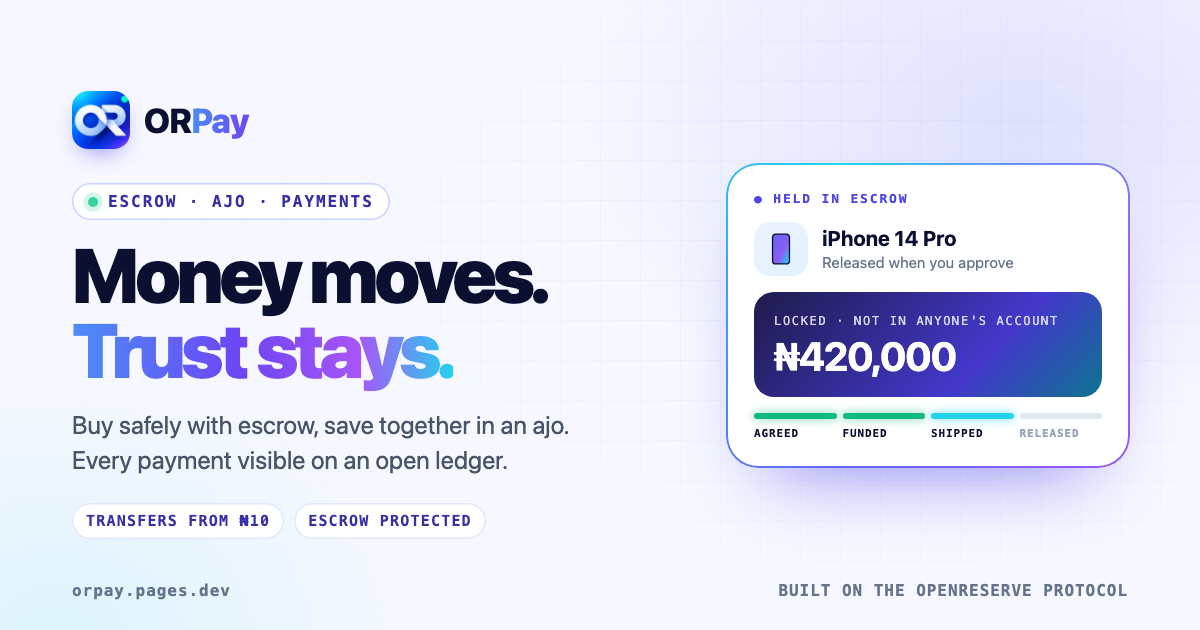
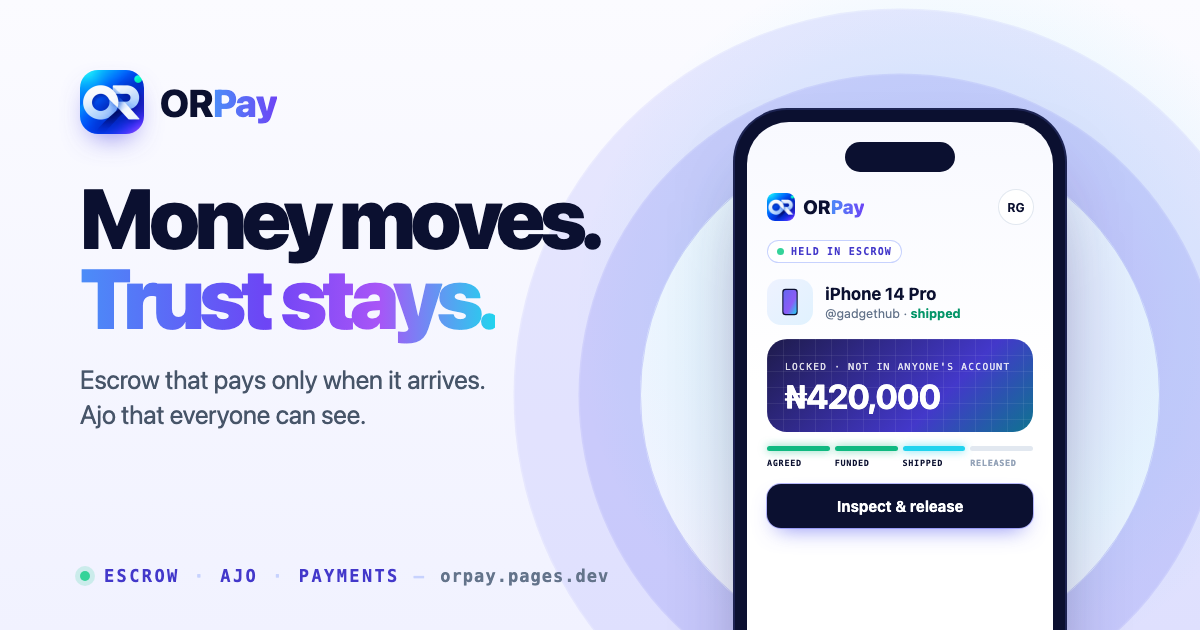
Better social card: bold headline with escrow phone

diff --git a/apps/orpay/frontend/og-card/card.html b/apps/orpay/frontend/og-card/card.html
@@ -1,50 +1,55 @@
 <!doctype html><html><head><meta charset="utf-8"><style>
 *{box-sizing:border-box;margin:0}
-body{width:1200px;height:630px;overflow:hidden;font-family:Inter,-apple-system,"SF Pro Display","Segoe UI",system-ui,sans-serif;color:#0b1030;
-background:radial-gradient(55% 70% at 85% 20%,rgba(99,102,241,.16),transparent 70%),radial-gradient(45% 60% at 5% 100%,rgba(34,211,238,.12),transparent 70%),#f7f8ff}
-.grid{position:absolute;inset:0;background-image:linear-gradient(rgba(99,102,241,.06) 1px,transparent 1px),linear-gradient(90deg,rgba(99,102,241,.06) 1px,transparent 1px);background-size:40px 40px;-webkit-mask-image:radial-gradient(70% 80% at 70% 40%,#000,transparent)}
-.wrap{position:relative;display:flex;height:100%;padding:64px 72px;gap:48px;align-items:center}
-.left{flex:1}
-.brand{display:flex;align-items:center;gap:14px;font-weight:800;font-size:34px;letter-spacing:-.02em}
-.brand img{width:58px;height:58px;border-radius:16px;box-shadow:0 10px 24px -10px rgba(79,70,229,.7)}
-.brand .pay{background:linear-gradient(90deg,#4b8df8,#6d45f5);-webkit-background-clip:text;color:transparent}
+body{width:1200px;height:630px;overflow:hidden;position:relative;font-family:Inter,-apple-system,"SF Pro Display","Segoe UI",system-ui,sans-serif;color:#0b1030;background:linear-gradient(180deg,#fbfbff,#f1f2ff)}
 .mono{font-family:"SF Mono",ui-monospace,Menlo,monospace}
-.pill{display:inline-flex;align-items:center;gap:10px;margin:34px 0 18px;padding:9px 16px;border-radius:999px;background:#fff;box-shadow:inset 0 0 0 1.5px #c7d2fe;font-size:16px;font-weight:700;letter-spacing:.12em;color:#3730a3}
+.glow{position:absolute;right:-120px;top:-60px;width:760px;height:760px;border-radius:50%;background:radial-gradient(circle,rgba(99,102,241,.22),rgba(34,211,238,.08) 45%,transparent 68%)}
+.ring{position:absolute;left:900px;top:395px;width:520px;height:520px;translate:-50% -50%;border-radius:50%;border:1.5px solid rgba(99,102,241,.25);box-shadow:0 0 0 60px rgba(99,102,241,.05),0 0 0 61.5px rgba(99,102,241,.14),0 0 0 125px rgba(99,102,241,.03),0 0 0 126.5px rgba(99,102,241,.09)}
+.left{position:absolute;left:80px;top:70px;width:640px}
+.brand{display:flex;align-items:center;gap:16px;font-weight:800;font-size:38px;letter-spacing:-.02em}
+.brand img{width:64px;height:64px;border-radius:18px;box-shadow:0 12px 28px -12px rgba(79,70,229,.8)}
+.pay{background:linear-gradient(90deg,#4b8df8,#6d45f5);-webkit-background-clip:text;color:transparent}
+h1{margin-top:44px;font-size:84px;white-space:nowrap;line-height:.95;letter-spacing:-.055em;font-weight:900}
+h1 span{background:linear-gradient(90deg,#4b8df8,#6d45f5 45%,#a855f7 72%,#22d3ee);-webkit-background-clip:text;color:transparent}
+p{margin-top:24px;font-size:26px;line-height:1.35;color:#475569;letter-spacing:-.01em}
+.bar{position:absolute;left:80px;bottom:44px;display:flex;align-items:center;gap:14px;font-size:17px;font-weight:700;letter-spacing:.14em;color:#4338ca}
 .dot{width:10px;height:10px;border-radius:50%;background:#34d399;box-shadow:0 0 0 5px rgba(52,211,153,.2)}
-h1{font-size:76px;line-height:.98;letter-spacing:-.05em;font-weight:900}
-h1 span{background:linear-gradient(90deg,#4b8df8,#6d45f5 45%,#a855f7 75%,#22d3ee);-webkit-background-clip:text;color:transparent}
-p{margin-top:20px;font-size:25px;color:#475569;line-height:1.4}
-.chips{display:flex;gap:10px;margin-top:26px}
-.chip{padding:9px 14px;border-radius:999px;background:#fff;box-shadow:inset 0 0 0 1.5px #e0e7ff;font-size:15px;font-weight:700;letter-spacing:.08em;color:#3730a3}
-.card{width:400px;padding:26px;border-radius:30px;background:#fff;box-shadow:0 0 0 1.5px rgba(99,102,241,.25),0 40px 80px -40px rgba(79,70,229,.7);position:relative}
-.card:before{content:"";position:absolute;inset:-2px;border-radius:32px;padding:2px;background:conic-gradient(from 210deg,#6366f1,#22d3ee,#a855f7,#6366f1);-webkit-mask:linear-gradient(#000 0 0) content-box,linear-gradient(#000 0 0);-webkit-mask-composite:xor;mask-composite:exclude}
-.tag{font-size:13px;font-weight:700;letter-spacing:.14em;color:#4f46e5}
-.item{display:flex;align-items:center;gap:14px;margin:16px 0}
-.thumb{width:54px;height:54px;border-radius:16px;background:linear-gradient(135deg,#eef2ff,#e0f2fe);display:grid;place-items:center}
-.item b{font-size:21px}.item small{display:block;font-size:15px;color:#64748b;margin-top:3px}
-.amt{border-radius:20px;padding:18px 20px;color:#fff;background:linear-gradient(135deg,#1e1b4b,#4338ca 65%,#0e7490)}
-.amt small{font-size:12px;letter-spacing:.14em;opacity:.8}.amt strong{display:block;font-size:40px;letter-spacing:-.03em;margin-top:4px}
-.steps{display:grid;grid-template-columns:repeat(4,1fr);gap:6px;margin-top:16px}
-.steps i{height:6px;border-radius:6px;background:#e2e8f0}.steps i.on{background:#10b981;box-shadow:0 0 10px rgba(16,185,129,.6)}.steps i.now{background:#22d3ee;box-shadow:0 0 10px rgba(34,211,238,.7)}
-.labels{display:grid;grid-template-columns:repeat(4,1fr);gap:6px;margin-top:8px;font-size:11px;font-weight:700;letter-spacing:.08em;color:#94a3b8}
-.labels span.on{color:#0b1030}
-.foot{position:absolute;left:72px;right:72px;bottom:30px;display:flex;justify-content:space-between;font-size:16px;font-weight:600;color:#64748b;letter-spacing:.06em}
-</style></head><body><div class="grid"></div>
-<div class="wrap">
- <div class="left">
-  <div class="brand"><img src="icon-512.png"><span>OR<span class="pay">Pay</span></span></div>
-  <div class="pill mono"><span class="dot"></span>ESCROW · AJO · PAYMENTS</div>
-  <h1>Money moves.<br><span>Trust stays.</span></h1>
-  <p>Buy safely with escrow, save together in an ajo.<br>Every payment visible on an open ledger.</p>
-  <div class="chips mono"><span class="chip">TRANSFERS FROM ₦10</span><span class="chip">ESCROW PROTECTED</span></div>
- </div>
- <div class="card">
-  <div class="tag mono">● HELD IN ESCROW</div>
-  <div class="item"><div class="thumb"><svg width="26" height="36" viewBox="0 0 40 52"><defs><linearGradient id="g" x1="0" y1="0" x2="1" y2="1"><stop offset="0" stop-color="#6366f1"/><stop offset=".6" stop-color="#8b5cf6"/><stop offset="1" stop-color="#22d3ee"/></linearGradient></defs><rect x="6" y="2" width="28" height="48" rx="6" fill="#0b1030"/><rect x="8" y="4" width="24" height="44" rx="4.5" fill="url(#g)"/></svg></div><div><b>iPhone 14 Pro</b><small>Released when you approve</small></div></div>
-  <div class="amt"><small class="mono">LOCKED · NOT IN ANYONE'S ACCOUNT</small><strong>₦420,000</strong></div>
-  <div class="steps"><i class="on"></i><i class="on"></i><i class="now"></i><i></i></div>
-  <div class="labels mono"><span class="on">AGREED</span><span class="on">FUNDED</span><span class="on">SHIPPED</span><span>RELEASED</span></div>
- </div>
+.sep{color:#c7d2fe}
+.url{color:#64748b;letter-spacing:.06em;font-weight:600}
+/* phone */
+.phone{position:absolute;left:900px;top:110px;translate:-50% 0;width:330px;height:600px;border-radius:52px;background:#0b1030;padding:12px;box-shadow:0 50px 90px -40px rgba(30,27,75,.75),0 0 0 2px #1e2554}
+.screen{width:100%;height:100%;border-radius:42px;background:linear-gradient(180deg,#f8f9ff,#fff 45%);padding:20px 20px;overflow:hidden;position:relative}
+.island{width:110px;height:30px;border-radius:20px;background:#0b1030;margin:0 auto 18px}
+.row{display:flex;align-items:center;justify-content:space-between}
+.app{display:flex;align-items:center;gap:8px;font-weight:800;font-size:19px}.app img{width:28px;height:28px;border-radius:8px}
+.me{width:34px;height:34px;border-radius:50%;background:#fff;box-shadow:0 0 0 1px #e2e8f0;display:grid;place-items:center;font-size:12px;font-weight:700}
+.tag{display:inline-flex;align-items:center;gap:7px;margin-top:16px;padding:6px 10px;border-radius:999px;background:#fff;box-shadow:inset 0 0 0 1px #c7d2fe;font-size:10px;font-weight:700;letter-spacing:.12em;color:#4338ca}
+.tag i{width:7px;height:7px;border-radius:50%;background:#34d399}
+.item{display:flex;align-items:center;gap:12px;margin:16px 0 14px}
+.thumb{width:46px;height:46px;border-radius:14px;background:linear-gradient(135deg,#eef2ff,#e0f2fe);display:grid;place-items:center}
+.item b{font-size:17px}.item small{display:block;font-size:12.5px;color:#64748b;margin-top:2px}.item em{font-style:normal;color:#059669;font-weight:700}
+.amt{position:relative;border-radius:20px;padding:16px 18px;color:#fff;background:linear-gradient(135deg,#1e1b4b,#4338ca 65%,#0e7490);overflow:hidden}
+.amt:before{content:"";position:absolute;inset:0;background-image:linear-gradient(rgba(255,255,255,.07) 1px,transparent 1px),linear-gradient(90deg,rgba(255,255,255,.07) 1px,transparent 1px);background-size:16px 16px}
+.amt small{position:relative;font-size:9.5px;letter-spacing:.14em;opacity:.85}.amt strong{position:relative;display:block;font-size:34px;letter-spacing:-.03em;margin-top:3px}
+.steps{display:grid;grid-template-columns:repeat(4,1fr);gap:5px;margin-top:14px}
+.steps i{height:5px;border-radius:5px;background:#e2e8f0}.steps i.on{background:#10b981;box-shadow:0 0 8px rgba(16,185,129,.6)}.steps i.now{background:#22d3ee;box-shadow:0 0 8px rgba(34,211,238,.7)}
+.labels{display:grid;grid-template-columns:repeat(4,1fr);gap:5px;margin-top:7px;font-size:8.5px;font-weight:700;letter-spacing:.08em;color:#94a3b8}.labels .on{color:#0b1030}
+.btn{margin-top:16px;border-radius:14px;padding:13px;text-align:center;color:#fff;font-weight:700;font-size:15px;background:#0b1030;box-shadow:0 0 0 1px rgba(99,102,241,.45),0 10px 22px -10px rgba(99,102,241,.8)}
+</style></head><body>
+<div class="glow"></div><div class="ring"></div>
+<div class="left">
+ <div class="brand"><img src="icon-512.png"><span>OR<span class="pay">Pay</span></span></div>
+ <h1>Money moves.<br><span>Trust stays.</span></h1>
+ <p>Escrow that pays only when it arrives.<br>Ajo that everyone can see.</p>
 </div>
-<div class="foot mono"><span>orpay.pages.dev</span><span>BUILT ON THE OPENRESERVE PROTOCOL</span></div>
+<div class="bar mono"><span class="dot"></span>ESCROW <span class="sep">·</span> AJO <span class="sep">·</span> PAYMENTS <span class="sep">—</span> <span class="url">orpay.pages.dev</span></div>
+<div class="phone"><div class="screen">
+ <div class="island"></div>
+ <div class="row"><span class="app"><img src="icon-512.png"><span>OR<span class="pay">Pay</span></span></span><span class="me">RG</span></div>
+ <div class="tag mono"><i></i>HELD IN ESCROW</div>
+ <div class="item"><div class="thumb"><svg width="22" height="30" viewBox="0 0 40 52"><defs><linearGradient id="g" x1="0" y1="0" x2="1" y2="1"><stop offset="0" stop-color="#6366f1"/><stop offset=".6" stop-color="#8b5cf6"/><stop offset="1" stop-color="#22d3ee"/></linearGradient></defs><rect x="6" y="2" width="28" height="48" rx="6" fill="#0b1030"/><rect x="8" y="4" width="24" height="44" rx="4.5" fill="url(#g)"/></svg></div><div><b>iPhone 14 Pro</b><small>@gadgethub · <em>shipped</em></small></div></div>
+ <div class="amt"><small class="mono">LOCKED · NOT IN ANYONE'S ACCOUNT</small><strong>₦420,000</strong></div>
+ <div class="steps"><i class="on"></i><i class="on"></i><i class="now"></i><i></i></div>
+ <div class="labels mono"><span class="on">AGREED</span><span class="on">FUNDED</span><span class="on">SHIPPED</span><span>RELEASED</span></div>
+ <div class="btn">Inspect &amp; release</div>
+</div></div>
 </body></html>

diff --git a/apps/orpay/frontend/index.html b/apps/orpay/frontend/index.html
@@ -19,14 +19,14 @@
     <meta property="og:url" content="https://orpay.pages.dev/" />
     <meta property="og:title" content="ORPay: money moves, trust stays" />
     <meta property="og:description" content="Escrow, ajo and payments on an open ledger. Built on the OpenReserve Protocol." />
-    <meta property="og:image" content="https://orpay.pages.dev/og.png" />
+    <meta property="og:image" content="https://orpay.pages.dev/og.png?v=2" />
     <meta property="og:image:width" content="1200" />
     <meta property="og:image:height" content="630" />
-    <meta property="og:image:alt" content="ORPay: Money moves. Trust stays. An escrow card holding ₦420,000 until the buyer approves." />
+    <meta property="og:image:alt" content="ORPay: Money moves. Trust stays. A phone showing ₦420,000 held in escrow until the buyer inspects and releases it." />
     <meta name="twitter:card" content="summary_large_image" />
     <meta name="twitter:title" content="ORPay: money moves, trust stays" />
     <meta name="twitter:description" content="Escrow, ajo and payments on an open ledger." />
-    <meta name="twitter:image" content="https://orpay.pages.dev/og.png" />
+    <meta name="twitter:image" content="https://orpay.pages.dev/og.png?v=2" />
   </head>
   <body>
     <div id="app"></div>
